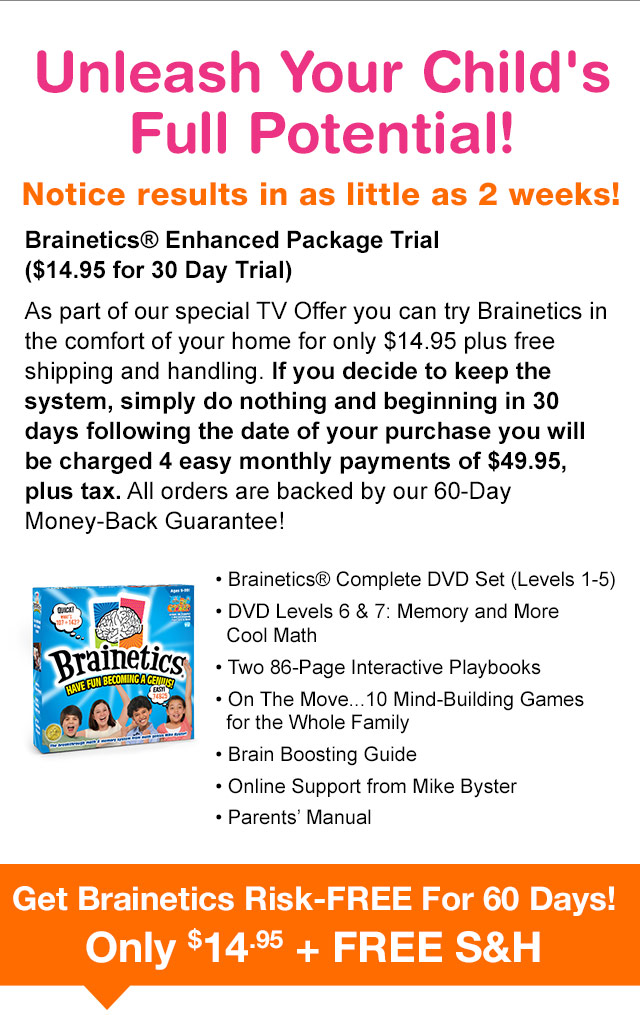
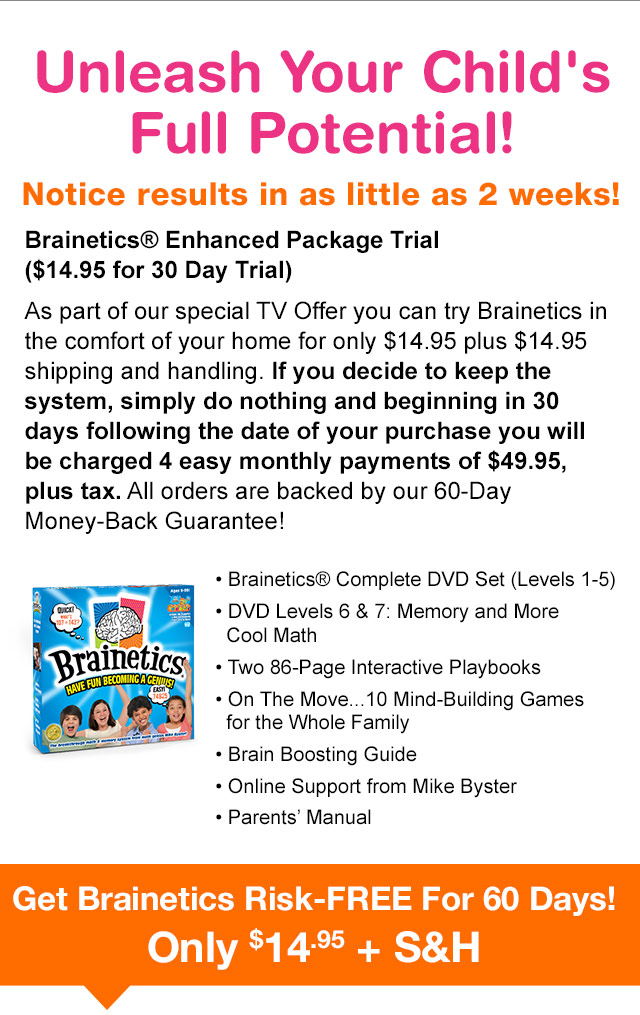
Garo: Front end updates New Files: Brainetics.com\Website\CSWeb\Content\Images\b2\form_top.png Brainetics.com\Website\CSWeb\Content\Images\b2\upsell_new_singlepay_v1b.jpg Brainetics.com\Website\CSWeb\Content\Images\b2\upsell_new_singlepay_v3b.jpg Brainetics.com\Website\CSWeb\Content\Images\b2\upsell
Updated files:
Brainetics.com\Website\CSWeb\Content\Images\mobile\cart_top.jpg
Brainetics.com\Website\CSWeb\B2\UserControls\ShippingForm.ascx
Brainetics.com\Website\CSWeb\B2\footer.html
Brainetics.com\Website\CSWeb\PS_B2\UserControls\ShippingForm.ascx
Brainetics.com\Website\CSWeb\PS_B2\footer.html

Changed region(s): [[0.125, 0.9163, 0.8438, 0.9773], [0.8125, 0.3054, 0.9062, 0.3665]]

diff --git a/Website/CSWeb/B2/footer.html b/Website/CSWeb/B2/footer.html
@@ -12,6 +12,6 @@
 </p>
 <p class="footerphone text-center">Phone Order: (800) 322-7165</p>
 <p>&copy; <script>document.write(new Date().getFullYear())</script> Brainetics, All Rights Reserved.</p>
-<p><strong>Offer Details:</strong> As part of our special TV Offer you can try Brainetics in the comfort of your home for only $14.95 plus free shipping and handling. If you decide to keep the system, simply do nothing and beginning in 30 days following the date of your purchase you will be charged 4 easy monthly payments of $49.95, plus tax. All orders are backed by our 60-Day Money-Back Guarantee!</p>
+<p><strong>Offer Details:</strong> As part of our special TV Offer you can try Brainetics in the comfort of your home for only $14.95 plus $14.95 shipping and handling. If you decide to keep the system, simply do nothing and beginning in 30 days following the date of your purchase you will be charged 4 easy monthly payments of $49.95, plus tax. All orders are backed by our 60-Day Money-Back Guarantee!</p>
 
 </div>

diff --git a/Website/CSWeb/PS_B2/footer.html b/Website/CSWeb/PS_B2/footer.html
@@ -12,6 +12,6 @@
 </p>
 <p class="footerphone text-center">Phone Order: (800) 322-7165</p>
 <p>&copy; <script>document.write(new Date().getFullYear())</script> Brainetics, All Rights Reserved.</p>
-<p><strong>Offer Details:</strong> As part of our special TV Offer you can try Brainetics in the comfort of your home for only $14.95 plus free shipping and handling. If you decide to keep the system, simply do nothing and beginning in 30 days following the date of your purchase you will be charged 4 easy monthly payments of $49.95, plus tax. All orders are backed by our 60-Day Money-Back Guarantee!</p>
+<p><strong>Offer Details:</strong> As part of our special TV Offer you can try Brainetics in the comfort of your home for only $14.95 plus $14.95 shipping and handling. If you decide to keep the system, simply do nothing and beginning in 30 days following the date of your purchase you will be charged 4 easy monthly payments of $49.95, plus tax. All orders are backed by our 60-Day Money-Back Guarantee!</p>
 
 </div>
